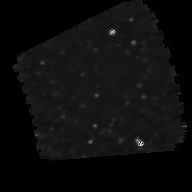
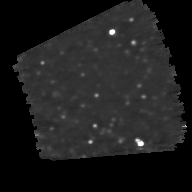
more uniform image processing

diff --git a/images/make_data.py b/images/make_data.py
@@ -7,16 +7,26 @@ import Image
 
 
 def make_images():
+    
+    # Get the global min and max pixel
+    extents = []
+    for f in glob.glob(path.join('..', 'test', 'data',"*.fits.gz")):
+        data = fits.getdata(f)
+        extents.append( np.nanmin(data) )
+        extents.append( np.nanmax(data) )
+    
+    extents = np.array(extents)
+    minimum = extents.min()
+    maximum = extents.max()
+    extent = float(maximum - minimum)
+    extent = extent - 0.75 * extent
+    
     for f in glob.glob(path.join('..', 'test', 'data', "*.fits.gz")):
-        
         data = fits.getdata(f)
         
-        minimum = np.nanmin(data)
-        extent = float(np.nanmax(data) - minimum)
-        extent = extent - 0.5 * extent
-        
         data = (data - minimum) / extent
-        data = (255.0 * data).astype('uint8')
+        data = (255.0 * data)
+        data = np.clip(data, 0, 255).astype('uint8')
         data = np.flipud(data)
         
         im = Image.fromarray(data)
